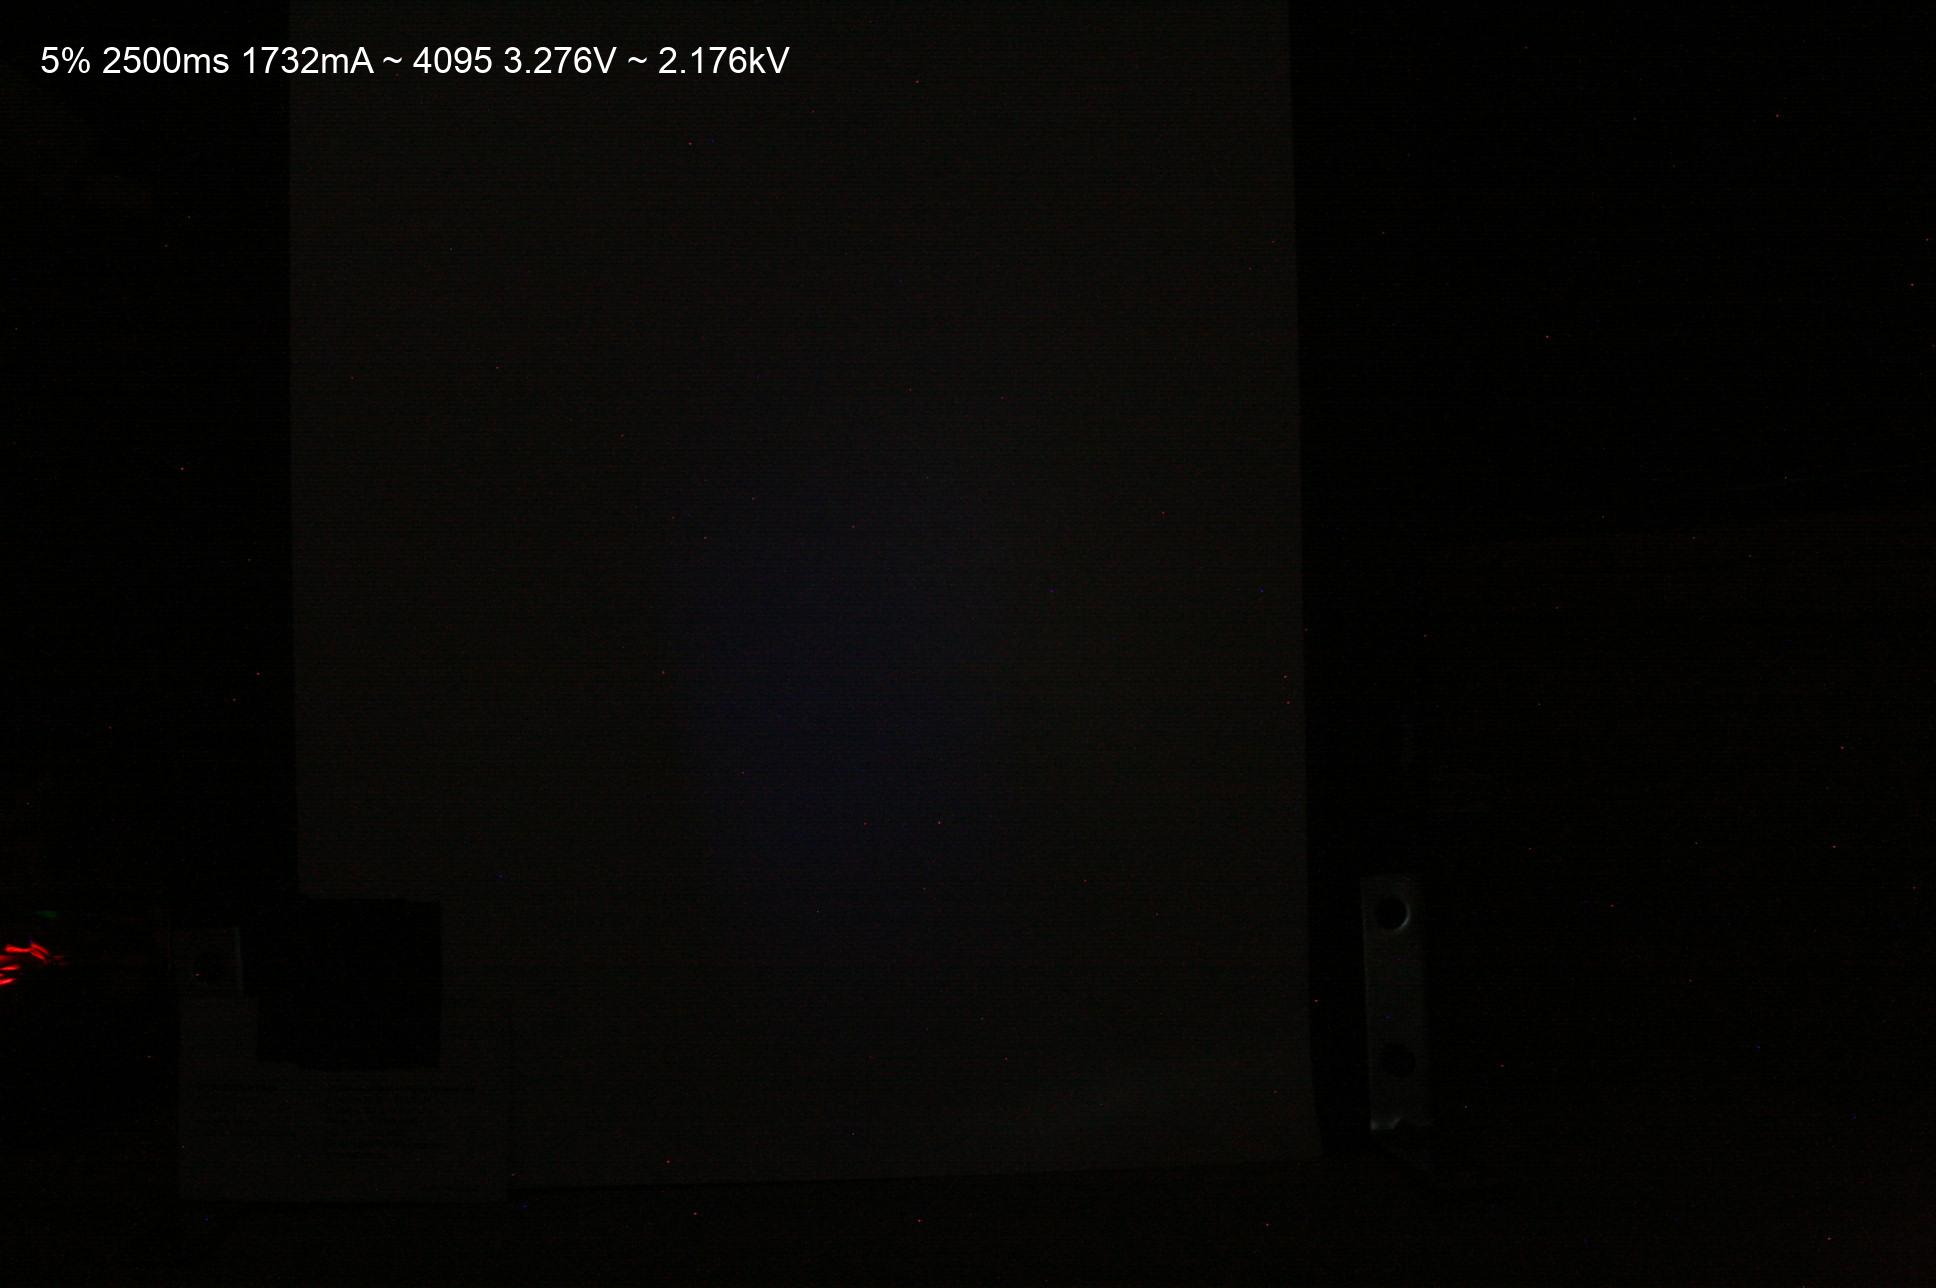
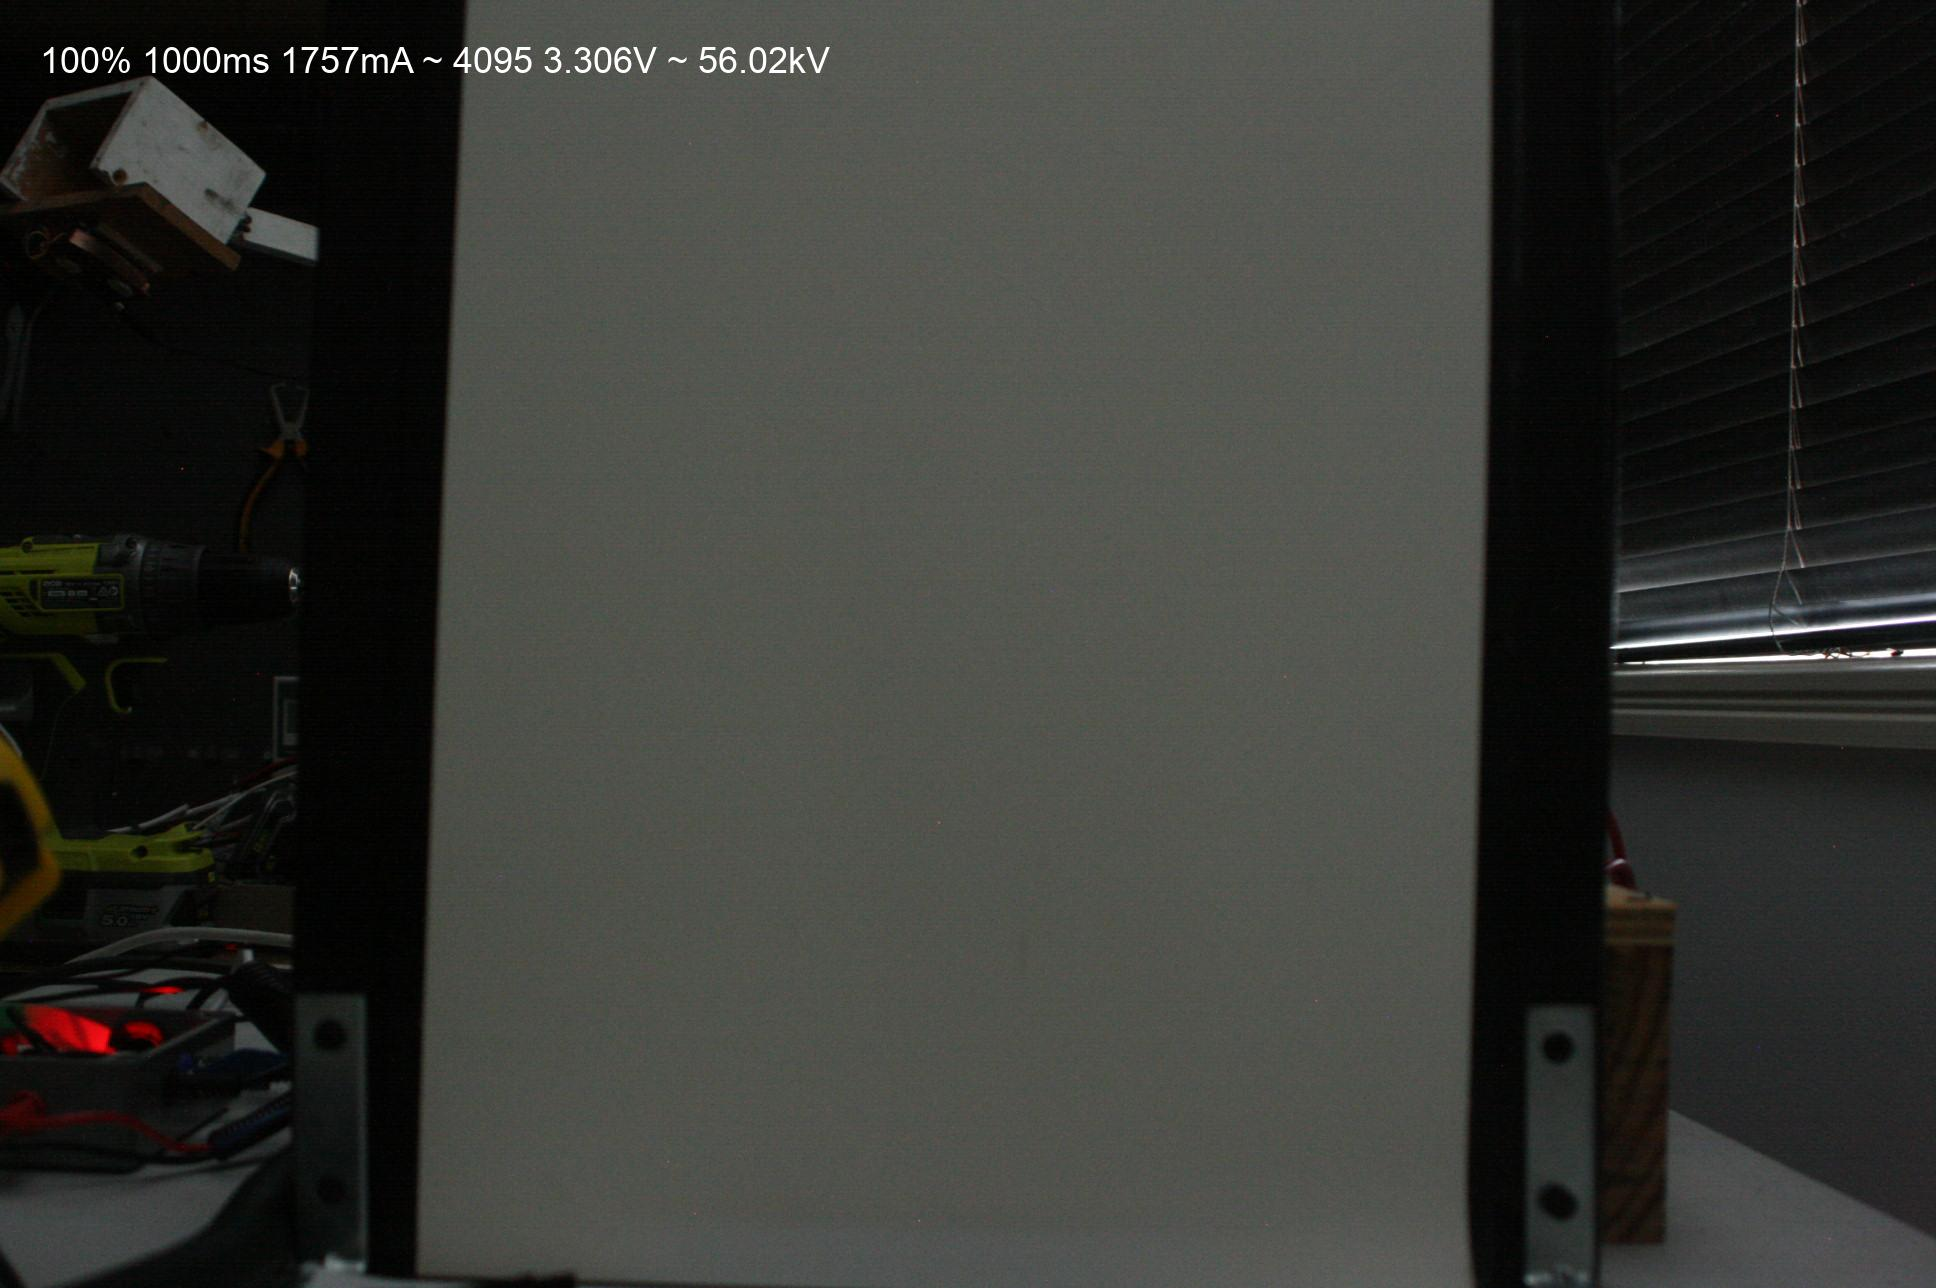
Stable

diff --git a/Photonic.py b/Photonic.py
@@ -30,8 +30,8 @@ HV_PWM_PIN = 13
 
 # I2C
 I2C_BUS = 1
-I2C_HIGHVOLTAGE_ADDRESS = 0x40
-I2C_FILAMENT_ADDRESS = 0x41
+I2C_HIGHVOLTAGE_ADDRESS = 0x41
+I2C_FILAMENT_ADDRESS = 0x40
 I2C_ADC_ADDRESS = 0x48
 I2C_DAC_ADDRESS_1 = 0x60
 I2C_DAC_ADDRESS_2 = 0x61
@@ -39,6 +39,7 @@ I2C_DAC_ADDRESS_2 = 0x61
 # ADC VALUES
 ADC_BIT_DEPTH = 32768
 ADC_MAX_VOLTAGE_1 = 4.096
+ADC_MAX_VOLTAGE_8 = 0.512
 ADC_MAX_VOLTAGE_16 = 0.256
 ADC_SAMPLES = 10
 ADC_SMALLEST = ADC_MAX_VOLTAGE_16 / ADC_BIT_DEPTH
@@ -57,8 +58,9 @@ CAMERA_TIMEOUT = 10
 MAX_CAPTURE_ATTEMPTS = 5
 
 KILL_PROCESS_EXCEPTIONS = ["http_server.py", "switch_wifi.py", "-m", "camera.py"]
-INTERPOLATE_FILEPATH = "assets//filament_currents.csv"
+ANALYTICS_FILEPATH = "imgs/analytics.csv"
 TMP_IMAGE_FILEPATH = "imgs/tmp.jpg"
+INTERPOLATE_FILEPATH = "assets/filament_value_to_hv.csv"
 
 
 class Camera(threading.Thread):
@@ -224,18 +226,17 @@ class HighVoltage():
 
     # Not currently working
     def current(self, adc_0_before, adc_1_before, adc_0_during, adc_1_during):
-        #hv_current = round(self.hv.current(adc_0_before, adc_1_before, adc_0_during, adc_1_during), 3)
         #print(f"adc_0_before:{adc_0_before},adc_1_before:{adc_1_before},adc_0_during:{adc_0_during},adc_1_during:{adc_1_during}")
-        #delta_0 = abs(adc_0_before - adc_0_during)
-        #delta_1 = abs(adc_1_before - adc_1_during)
+        v_0_before = (adc_0_before / ADC_BIT_DEPTH) * ADC_MAX_VOLTAGE_1
+        v_1_before = (adc_1_before / ADC_BIT_DEPTH) * ADC_MAX_VOLTAGE_1
+        v_0_during = (adc_0_during / ADC_BIT_DEPTH) * ADC_MAX_VOLTAGE_1
+        v_1_during = (adc_1_during / ADC_BIT_DEPTH) * ADC_MAX_VOLTAGE_1
 
-        v_drop_0 = (adc_0_during / ADC_BIT_DEPTH) * ADC_MAX_VOLTAGE_1
-        v_drop_1 = (adc_1_during / ADC_BIT_DEPTH) * ADC_MAX_VOLTAGE_1
-        v_drop = abs(v_drop_0 - v_drop_1)
+        delta_0 = abs(v_0_before - v_0_during)
+        delta_1 = abs(v_1_before - v_1_during)
+        delta = abs(delta_0 - delta_1)
 
-        filament_current = v_drop / ADC_R_VDROP
-
-        return filament_current
+        return delta / ADC_R_VDROP
 
     def voltage(self, voltage_adc):
         converted_voltage = (voltage_adc / ADC_BIT_DEPTH) * ADC_MAX_VOLTAGE_1
@@ -342,8 +343,8 @@ class Photonic():
         if not self.disable_led: self.led.set(1, 1)
 
         # Grab filament current before capture
-        adc_0_before = self.adc.average(0, 2)
-        adc_1_before = self.adc.average(1, 2)
+        adc_0_before = self.adc.average(0, 1)
+        adc_1_before = self.adc.average(1, 1)
 
         # Wait for filament to heat up
         self.filament.set(True, filament_power)
@@ -358,8 +359,8 @@ class Photonic():
 
         print("Capture started")
 
-        with open("assets//capture_stats.csv", "w") as f:
-            f.write("elasped_time,filament_current,hv_current,hv_voltage,mosfet_voltage,adc_0_before,adc_1_before,adc_0_during,adc_1_during\n")
+        with open(ANALYTICS_FILEPATH, "w") as f:
+            f.write("elasped_time,filament_current,hv_voltage,hv_current,mosfet_voltage,adc_0_before,adc_1_before,adc_0_during,adc_1_during\n")
 
             start_time = time.time()
 
@@ -370,9 +371,9 @@ class Photonic():
                 filament_current = self.filament.power.current()
 
                 # Get hv current
-                adc_0_during = self.adc.get(0, 2)
-                adc_1_during = self.adc.get(1, 2)
-                hv_current = round(self.hv.current(adc_0_before, adc_1_before, adc_0_during, adc_1_during), 3)
+                adc_0_during = self.adc.get(0, 1)
+                adc_1_during = self.adc.get(1, 1)
+                hv_current = round(self.hv.current(adc_0_before, adc_1_before, adc_0_during, adc_1_during), 3) * 1000
 
                 # Get hv voltage
                 hv_voltage = self.hv.voltage(self.adc.get(2, 1))
@@ -380,7 +381,7 @@ class Photonic():
                 # MOSFET voltage
                 mosfet_voltage = self.filament.mosfet_voltage(self.adc.get(3, 1))
 
-                f.write(f"{(time.time() - start_time) * 1000},{filament_current},{hv_current},{hv_voltage},{mosfet_voltage},{adc_0_before},{adc_1_before},{adc_0_during},{adc_1_during}\n")
+                f.write(f"{(time.time() - start_time) * 1000},{filament_current},{hv_voltage},{hv_current},{mosfet_voltage},{adc_0_before},{adc_1_before},{adc_0_during},{adc_1_during}\n")
 
                 if (time.time() - start_time) > (duration / 1000):
                     stop_time = time.time()
@@ -467,7 +468,6 @@ class Photonic():
         filament_current = self.filament.power.current()
         if filament_current < FILAMENT_CURRENT_THRESHOLD:
             print("FAIL: Filament no load:", filament_current)
-            self.filament.set(False)
             return_value = False
 
         self.filament.set(False)
@@ -515,4 +515,5 @@ class Photonic():
             self.led.running = False
         except Exception:
             print("Exception in finish method!")
+
 

diff --git a/MultiScan.py b/MultiScan.py
@@ -2,10 +2,9 @@ from time import sleep
 import Photonic
 
 
-XRAY = Photonic.Photonic(disable_led=True, remote_capture=True)
+XRAY = Photonic.Photonic(disable_led=True)
 
-
-filament_power_levels = [3000, 3000, 3000, 3000, 3000]
+filament_power_levels = list(range(0, 4095, 100))
 
 print(filament_power_levels)
 
@@ -14,10 +13,8 @@ with open("assets/filament_value_to_hv.csv", 'w') as file:
         print(f"XRAY at {power_level} power")
         scan = XRAY.capture(100, 1000, power_level)
 
-        stats = f"{scan.filament_power},{scan.filament_current},{scan.hv_voltage}"
+        stats = f"{scan.filament_power},{scan.filament_current}"
         print(stats)
         file.write(stats + "\n")
-
-        scan.img.save("imgs/multiscan_" + str(power_level) + ".jpg")
 
 XRAY.finish()

diff --git a/DSLR.py b/DSLR.py
@@ -67,14 +67,15 @@ if __name__ == "__main__":
 
     dslr.start()
 
-    dslr.trigger(True)
-    sleep(1)
-    dslr.trigger(False)
+    while True:
+        dslr.trigger(True)
+        sleep(1)
+        dslr.trigger(False)
 
-    dslr.ready.wait(10)
+        dslr.ready.wait(10)
 
-    if dslr.ready.is_set():
-        print("Saving image")
-        dslr.save("imgs/dslr.jpg")
-    else:
-        print("Did not capture")
+        if dslr.ready.is_set():
+            print("Saving image")
+            dslr.save("imgs/dslr.jpg")
+        else:
+            print("Did not capture")

diff --git a/Remote_NoSystemCheck.py b/Remote_NoSystemCheck.py
@@ -3,7 +3,7 @@ from PIL import ImageDraw, ImageFont
 import Photonic, sys
 import numpy, cv2
 
-XRAY = Photonic.Photonic(ignore_exceptions=True, disable_led=True)
+XRAY = Photonic.Photonic(ignore_exceptions=True)
 
 power = int(sys.argv[1])
 duration = int(sys.argv[2])
@@ -17,6 +17,7 @@ scan = XRAY.capture(power, duration) # Power (%), Time (ms)
 
 if scan:
     scan.save(f"imgs/{filename}.jpg")
+
     print("Duration:", scan.actual_duration)
 else:
     print("Image failed to be captured")

diff --git a/boot/camera.py b/boot/camera.py
@@ -20,16 +20,6 @@ from subprocess import Popen, PIPE
 import gphoto2 as gp
 
 
-class Gphoto2_init(threading.Thread):
-    def __init__(self):
-        threading.Thread.__init__(self)
-
-    def run(self):
-        process = Popen(['gphoto2', '--capture-tethered'])
-        sleep(5)
-        process.kill()
-
-
 class Camera(threading.Thread):
     def __init__(self):
         threading.Thread.__init__(self)

diff --git a/Remote.py b/Remote.py
@@ -16,6 +16,7 @@ else:
 
 if XRAY.system_check():
     scan = XRAY.capture(power, duration)
+
     print("Duration:", scan.actual_duration)
 
     if scan:
